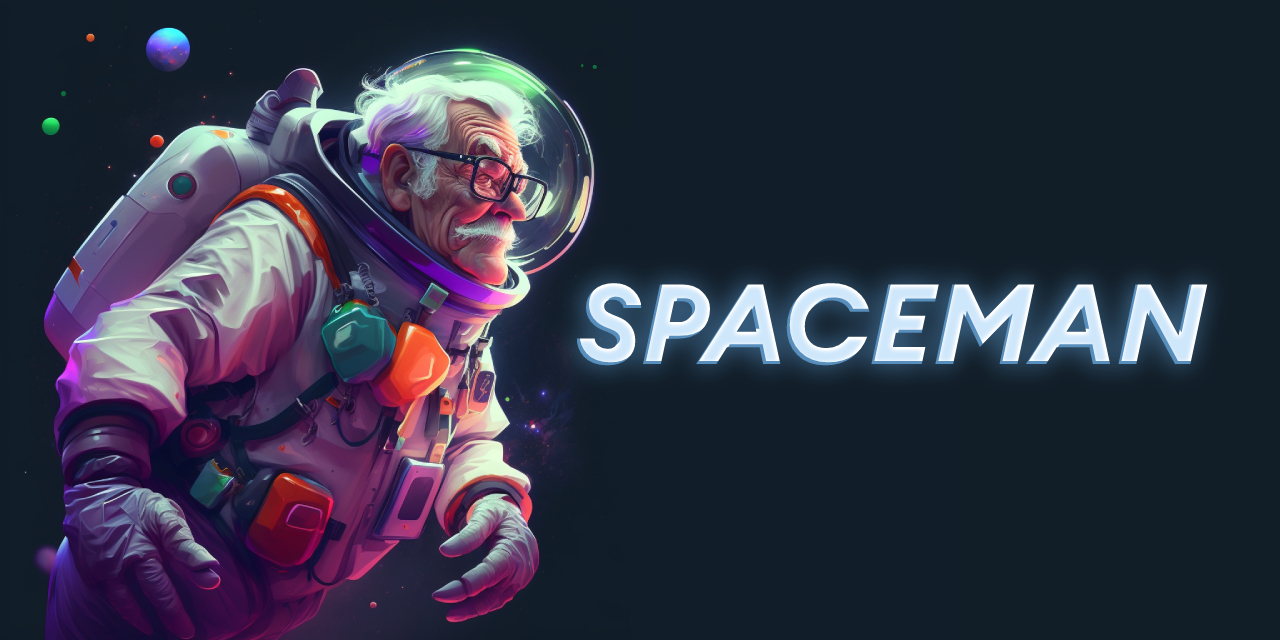
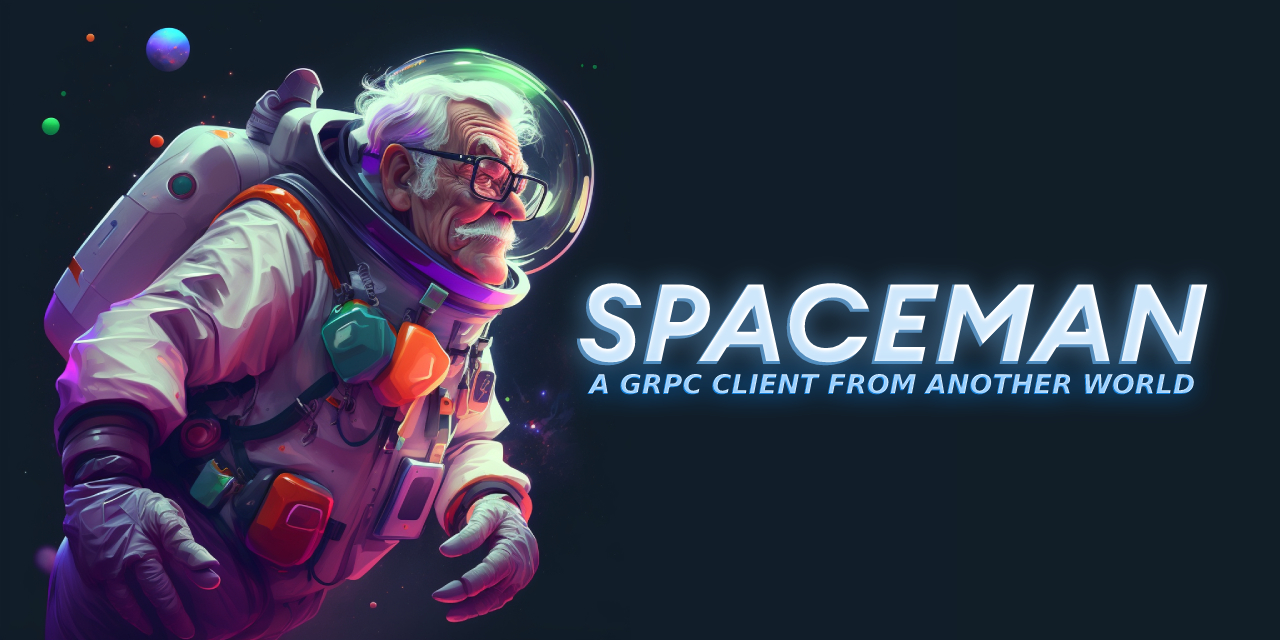
Write more of the README

Changed region(s): [[0.4375, 0.5625, 0.9375, 0.625]]

diff --git a/README.md b/README.md
@@ -1,4 +1,40 @@
 ![](img/banner.jpg)
 
-Q: I am on Linux and sometimes the application comes up with weird errors!
-A: Tauri uses webkit2gtk for the webview on Linux. Unfortunately, WASM is badly supported there and so Spaceman might encounter various issues. There is no known solution for this and nothing I can do about it.
+Spaceman is a cross-platform gRPC client designed to be pleasant to use and pretty to look at. It is available both as a desktop GUI and as a CLI. Its main use-case is manual testing and debugging of gRPC server: simply load a [Protobuf](https://protobuf.dev/programming-guides/proto3/) descriptor, choose your request, fill in the input message body and send away, to infinity and beyond!
+
+TODO Nice screenshot of GUI executing stream request
+
+## Ok but what's gRPC
+
+[gRPC](https://grpc.io/) is a modern high-level communication protocol developed at Google. In my mind, gRPC falls more or less in the same basket as HTTP. Nowadays, the latter is not just limited to serving webpages and REST APIs anymore: many applications, that have nothing to do with the web, communicate using it. I like to think of gRPC as a better way to do that.
+
+Some of the advantages are:
+- A dedicated, official, SDK is available for [many programming languages](https://grpc.io/docs/languages/). The SDK includes code generation utilities that make serving a gRPC service, or consuming one, a breeze as all the encoding, decoding, and data validation is done for you. For instance, calling a procedure on a remote server is as easy as calling a generated function and building a server usually boils down to implementing a method for each available endpoint.
+- Exchanged messages are strongly typed with the [Protobuf3](https://protobuf.dev/programming-guides/proto3/) schema language (some degree of free-typing is opt-in). This is great for avoiding the headaches of fields missing or having an unexpected type. In my experience, the schema file alone is already great documentation in and of itself when working in a small team. See [./playground/proto/playground.proto](playground.proto) for an example.
+- When working with a compiled language, the code generated by the SDK provides useful static typing. If your application doesn't communicate correctly, it won't even compile.
+- Messages are binary encoded and, because there is no need for them to be self-describing, they are [usually smaller than their JSON-encoded counterpart](https://nilsmagnus.github.io/post/proto-json-sizes/). Encoding and decoding the messages is performant and often takes [less time than `JSON.parse`-ing the same message in JavaScript](https://auth0.com/blog/beating-json-performance-with-protobuf/).
+- Apart from the usual "send a request, receive a response", gRPC also supports the client and/or the server asynchronously sending messages as long as they want to. When a procedure is _streaming_ from both sides, you effectively have full-duplex communication just like [WebSockets](https://developer.mozilla.org/en-US/docs/Web/API/WebSockets_API) or [socket.io](https://socket.io/).
+- [It is interoperable with HTTP if you need it](https://github.com/grpc/grpc-web).
+
+## In Action
+
+TODO Video of GUI usage
+TODO ASCII Cinema of CLI usage
+
+## Building
+
+## Usage
+
+## Technology Stack
+
+Spaceman is built in [Rust](https://www.rust-lang.org/) using [Tonic](https://github.com/hyperium/tonic) (part of the [Tokio ecosystem](https://tokio.rs/)) for making gRPC calls and heavily relies on [Prost-Reflect](https://crates.io/crates/prost-reflect) to interpret Protobuf messages not known at compile time. That's the core of it, the CLI is just a facade built with [Clap](https://github.com/clap-rs/clap).
+
+The GUI uses [Tauri](https://tauri.app/) as a framework for making webview-based desktop apps and the actual frontend is made with [Yew](https://yew.rs/): a Rust reactive framework that compiles down to [WebAssembly](https://webassembly.org/).
+
+## Miscellaneous
+
+**Q: Is the project actively maintained**  
+A: Not really, I built this for my own usage (if even that) just because I felt like building something cool with Rust and I thought it came out nice enough to give it a logo and a detailed README.
+
+**Q: I'm on Linux and the app behaves weirdly at times**  
+A: This is something that I experienced myself but I really can't do much about it. Tauri uses WebKit2GTK for rendering the webview on Linux and unfortunately, it doesn't play too nicely with WebAssembly. From my (limited) research, the issues that arise more frequently were solved in WebKit a long time ago but the fixes haven't made it into WebKit2GTK yet.
